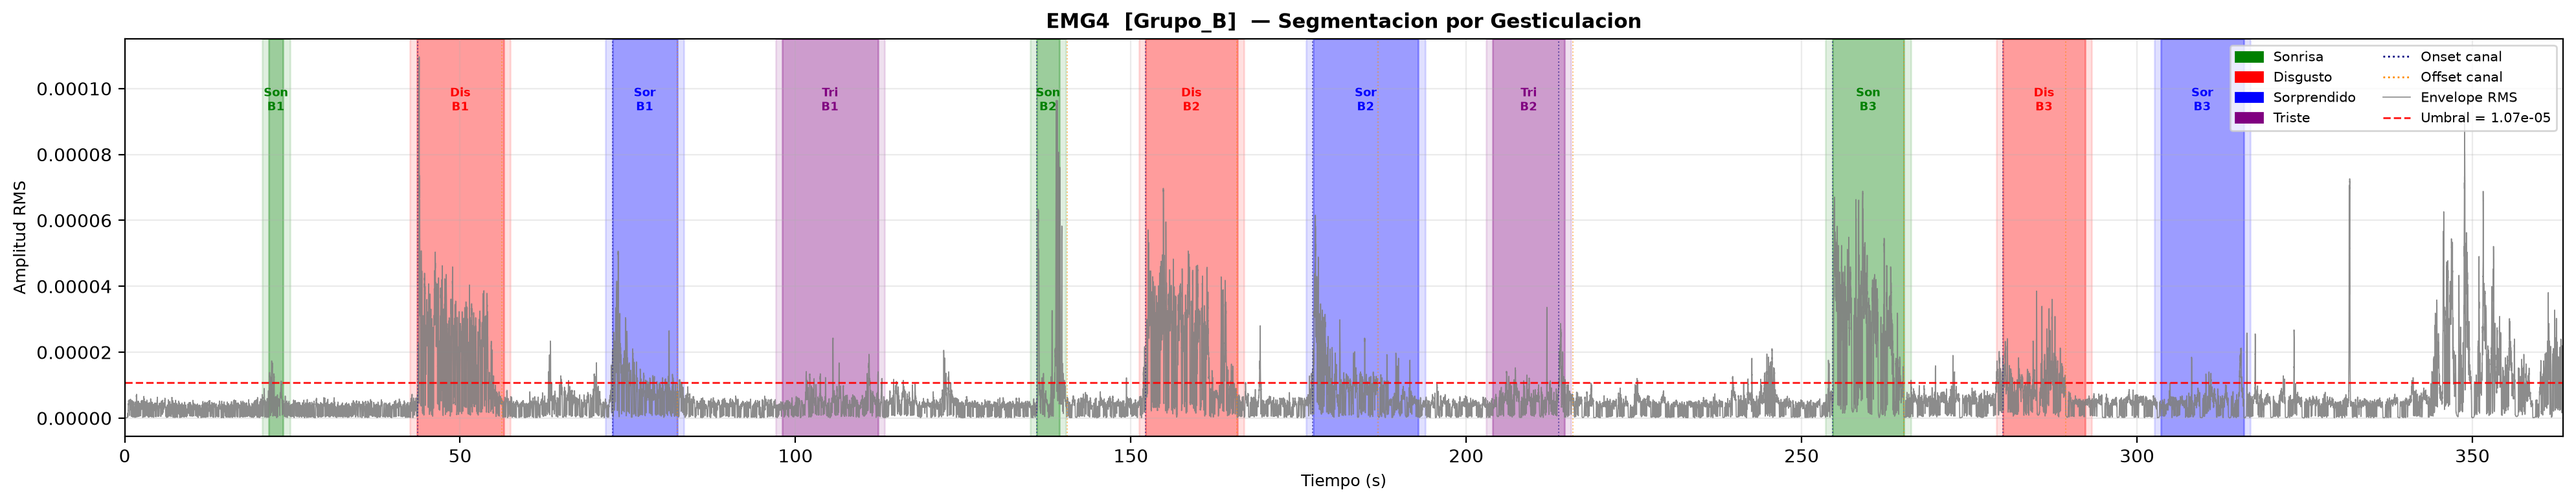
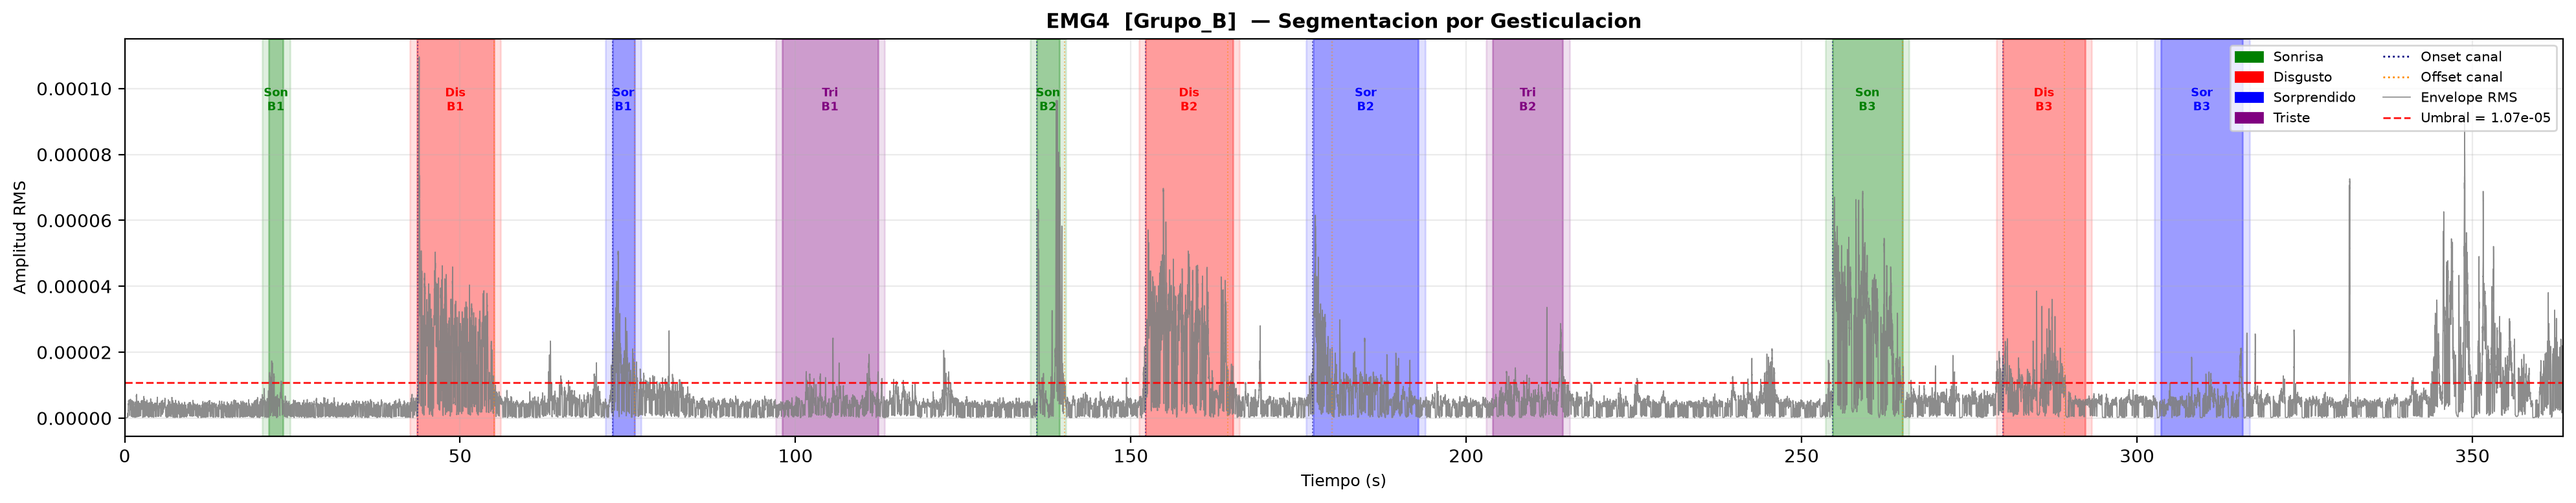
Config

diff --git a/main/run_segmentation.py b/main/run_segmentation.py
@@ -43,7 +43,7 @@ if __name__ == "__main__":
         k_offset_ratio=0.6,
         k_offset_ratio_per_group={
             "Grupo_A": 0.6,
-            "Grupo_B": 0.2,
+            "Grupo_B": 0.6,
         },
 
         # Refinamiento con baseline local pre-countdown (5s antes del countdown)
